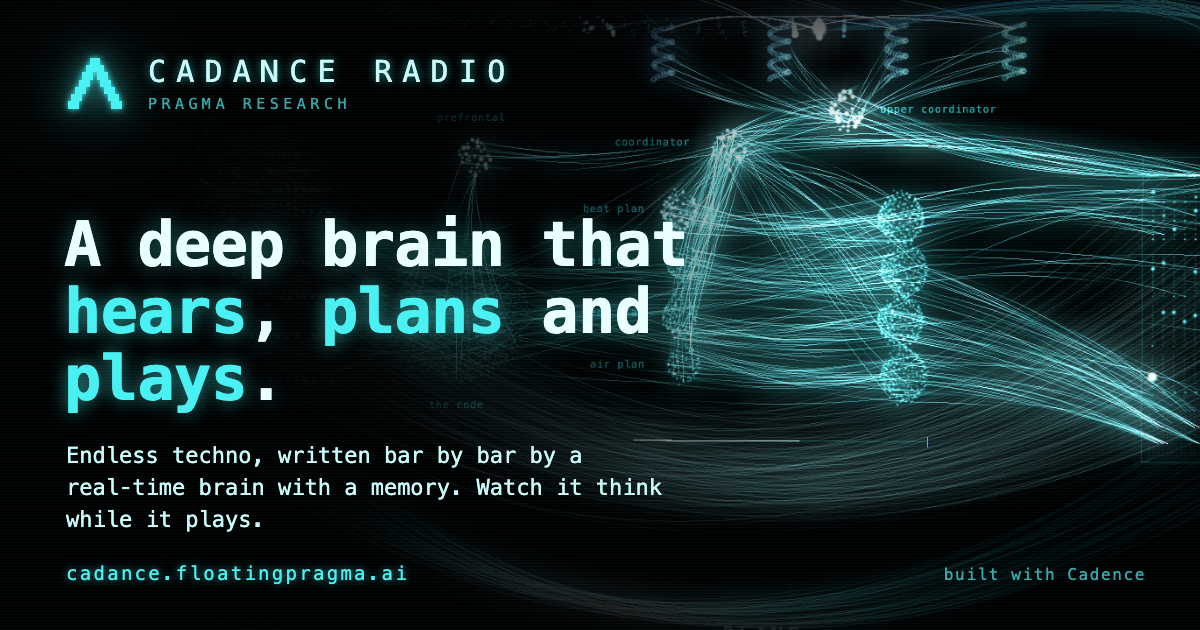
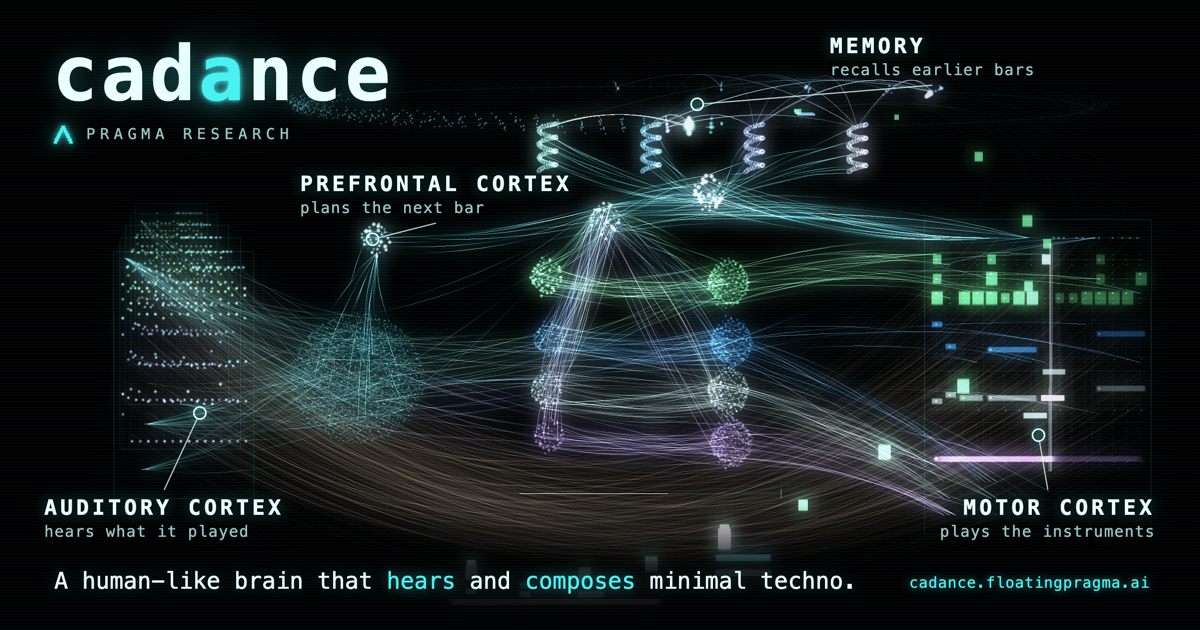
The social card names the brain's cortices and its memory

diff --git a/index.html b/index.html
@@ -3,24 +3,24 @@
 <head>
 <meta charset="utf-8">
 <meta name="viewport" content="width=device-width, initial-scale=1, viewport-fit=cover">
-<title>Cadance Radio | Pragma Research</title>
-<meta name="description" content="Cadance Radio: endless techno, written bar by bar by a real-time brain with a memory and mixed live in your browser by an Auto DJ. Watch it think while it plays.">
+<title>Cadance: a human-like brain that hears and composes minimal techno | Pragma Research</title>
+<meta name="description" content="Endless minimal techno from a human-like brain that hears what it played, recalls earlier bars, plans the next bar and plays the instruments. Watch it think while it plays.">
 <meta name="theme-color" content="#000000">
 <meta name="color-scheme" content="dark">
 <link rel="canonical" href="https://cadance.floatingpragma.ai/">
 <meta property="og:type" content="website">
 <meta property="og:site_name" content="Pragma Research">
-<meta property="og:title" content="Cadance Radio: a deep brain that hears, plans and plays">
-<meta property="og:description" content="Endless techno, written bar by bar by a real-time brain with a memory and mixed live by an Auto DJ. Watch it think while it plays.">
+<meta property="og:title" content="Cadance: a human-like brain that hears and composes minimal techno">
+<meta property="og:description" content="Endless minimal techno from a human-like brain that hears what it played, recalls earlier bars, plans the next bar and plays the instruments. Watch it think while it plays.">
 <meta property="og:url" content="https://cadance.floatingpragma.ai/">
-<meta property="og:image" content="https://cadance.floatingpragma.ai/og.png">
+<meta property="og:image" content="https://cadance.floatingpragma.ai/og.png?v=2">
 <meta property="og:image:width" content="1200">
 <meta property="og:image:height" content="630">
-<meta property="og:image:alt" content="The wiring of a Cadance brain glowing cyan on black, with the words: a deep brain that hears, plans and plays.">
+<meta property="og:image:alt" content="The wiring of the Cadance brain in glowing lines on black, with its auditory cortex, prefrontal cortex, motor cortex and memory named, and the words: a human-like brain that hears and composes minimal techno.">
 <meta name="twitter:card" content="summary_large_image">
-<meta name="twitter:image" content="https://cadance.floatingpragma.ai/og.png">
-<meta name="twitter:title" content="Cadance Radio: a deep brain that hears, plans and plays">
-<meta name="twitter:description" content="Endless techno, written bar by bar by a real-time brain with a memory. Watch it think while it plays.">
+<meta name="twitter:image" content="https://cadance.floatingpragma.ai/og.png?v=2">
+<meta name="twitter:title" content="Cadance: a human-like brain that hears and composes minimal techno">
+<meta name="twitter:description" content="Endless minimal techno from a human-like brain that hears what it played, recalls earlier bars, plans the next bar and plays the instruments. Watch it think while it plays.">
 <link rel="icon" href="favicon.svg" type="image/svg+xml" sizes="any">
 <!-- Google tags, as on floatingpragma.ai. Consent defaults come first; EEA, UK and CH start denied until the visitor chooses. -->
 <script>
